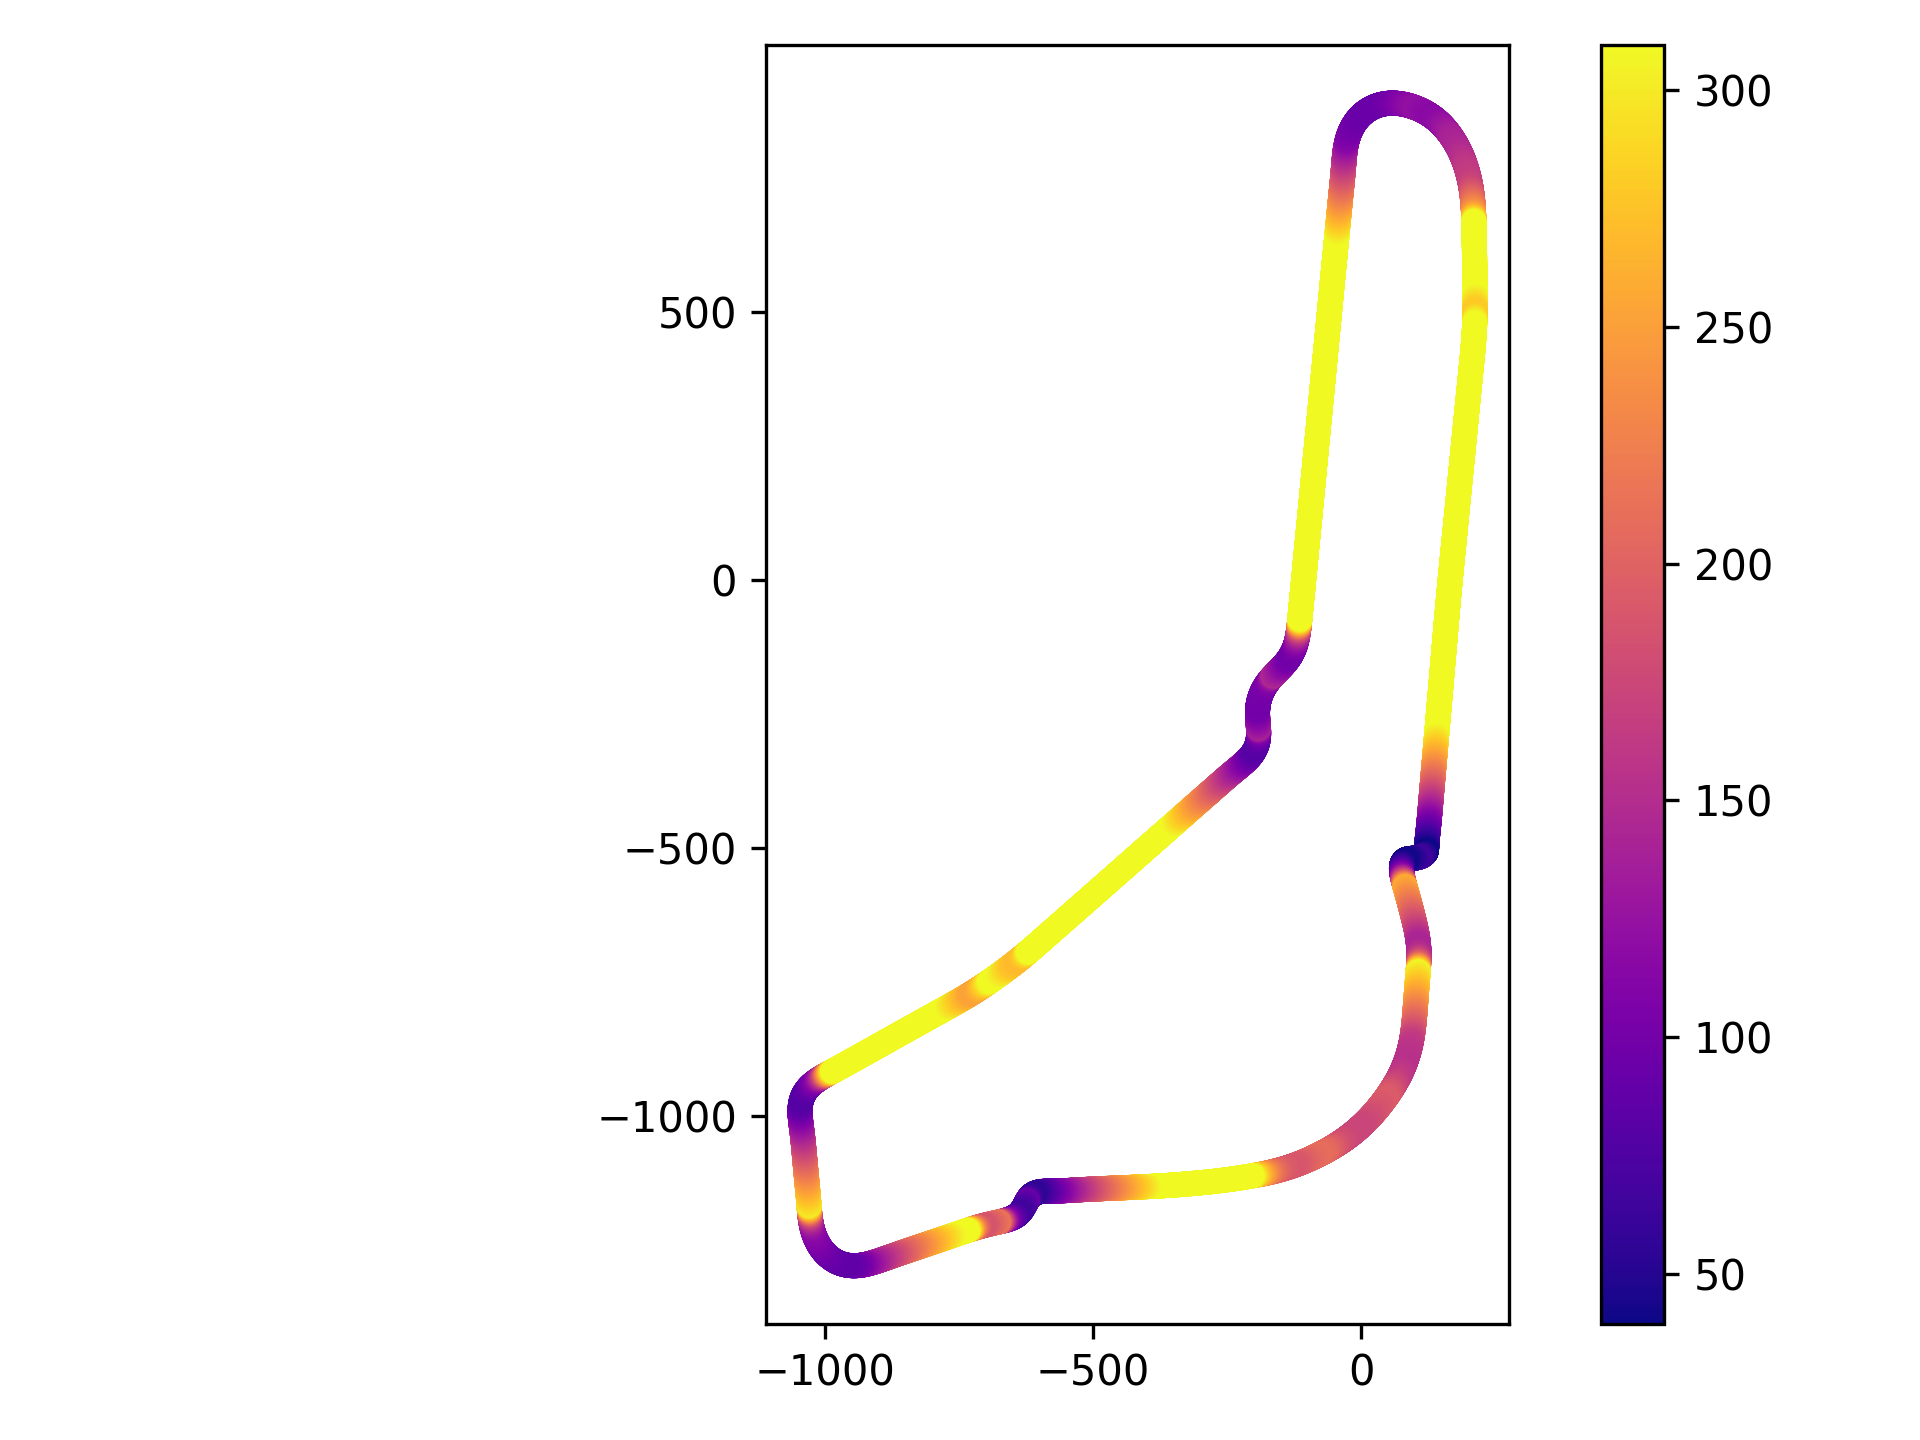
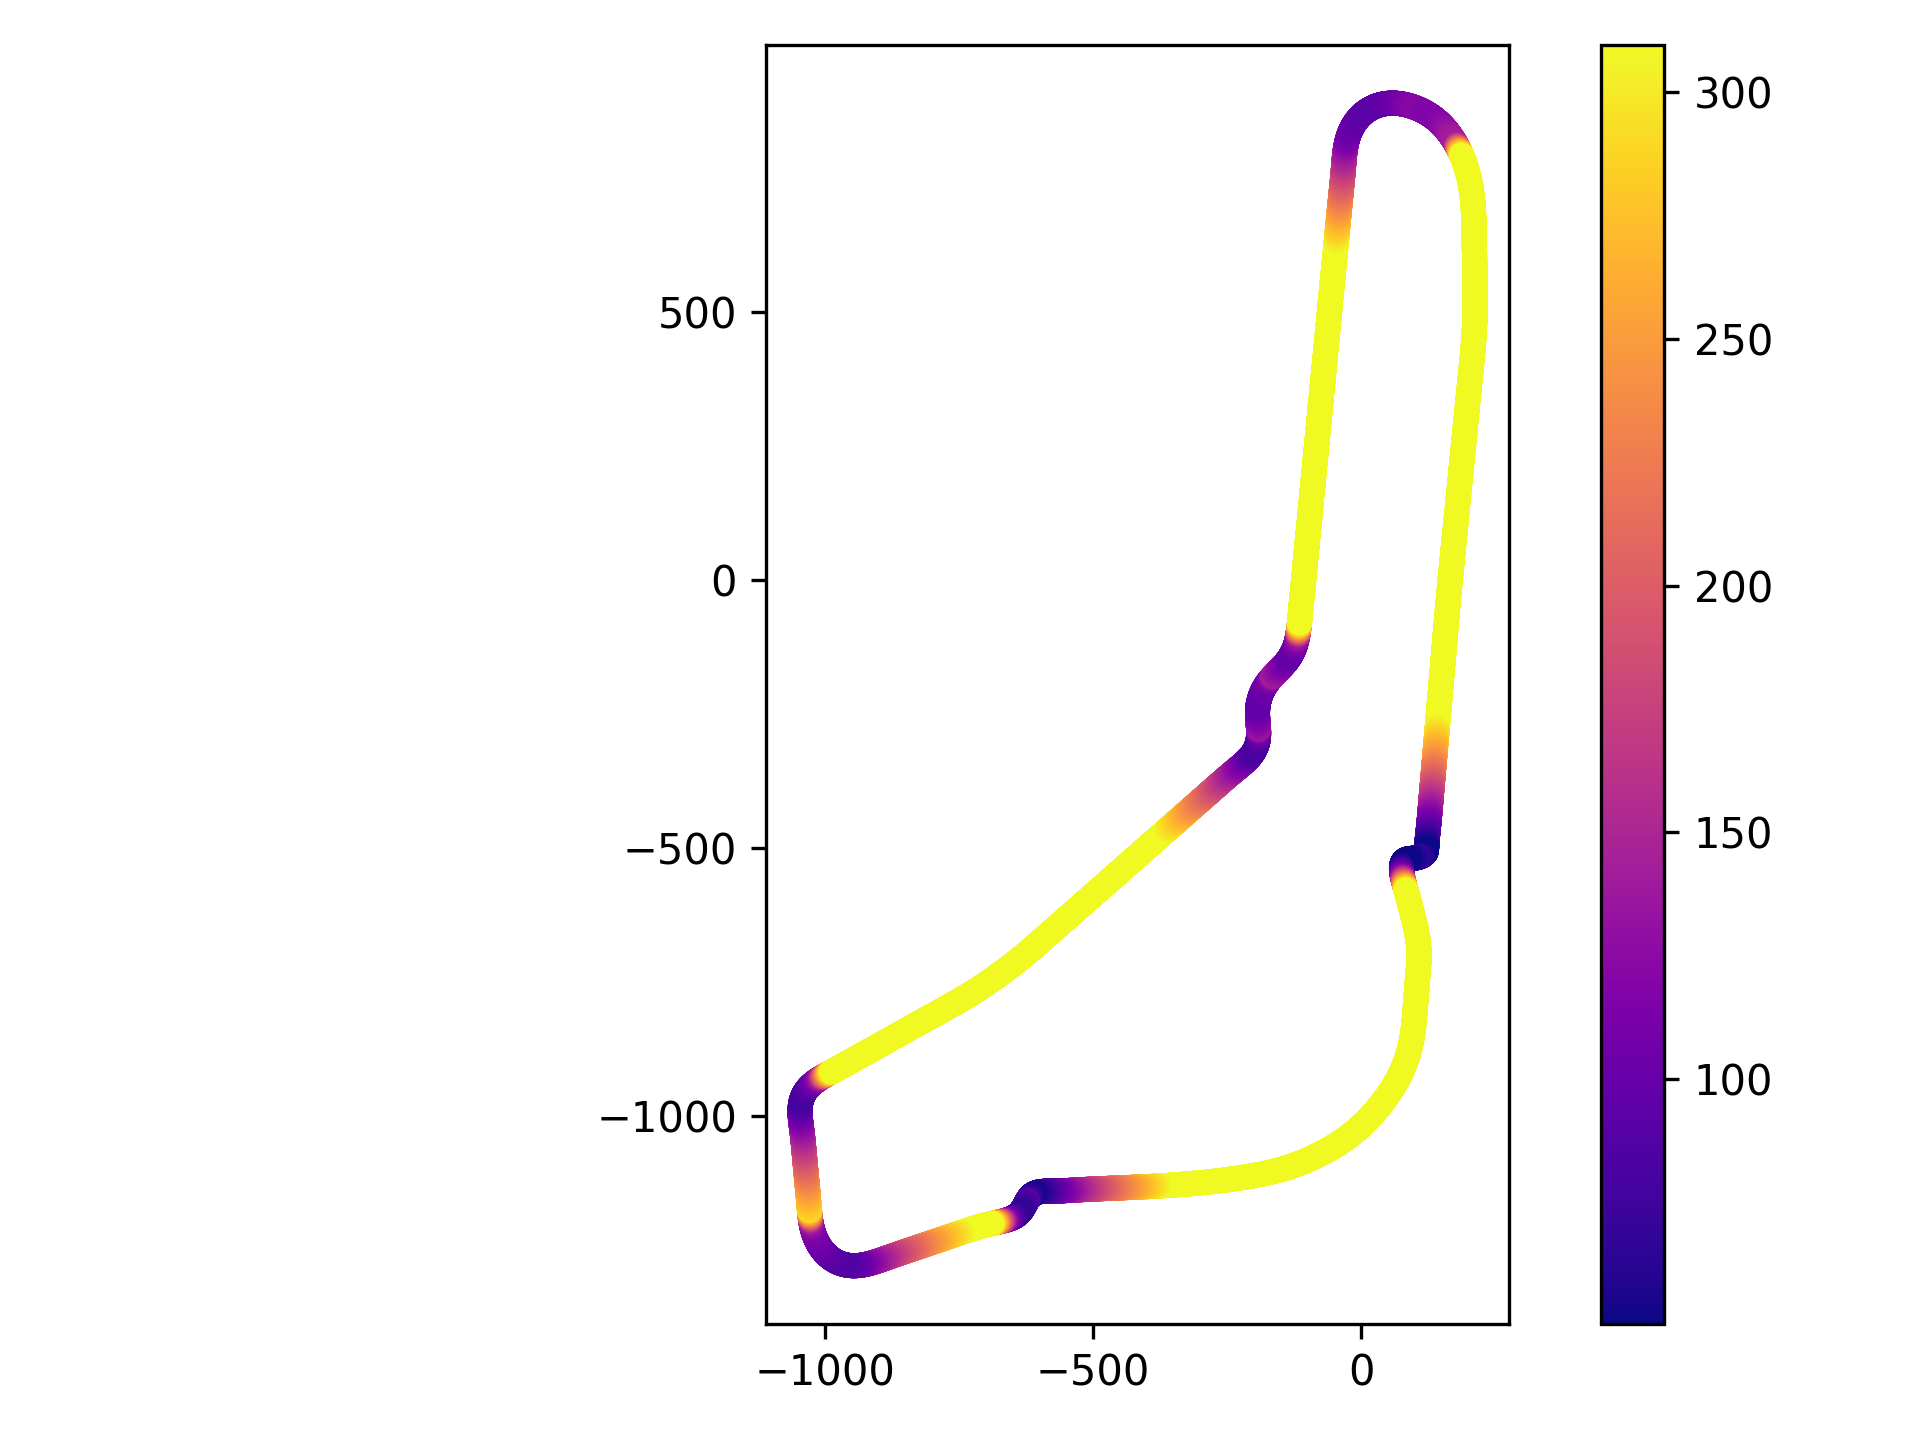
Added kappa threshold, dyanic end_velocity and now using v_min as a floor instead of v_dyn_max

diff --git a/agent/control/spatial_mpc.py b/agent/control/spatial_mpc.py
@@ -77,8 +77,16 @@ class SpatialMPC:
     def v_max(self) -> float:
         return self.SpeedProfileConstraints["v_max"]
 
+    @property
+    def ki_min(self) -> float:
+        return self.SpeedProfileConstraints["ki_min"]
+
     def compute_speed_profile(
-        self, reference_path, end_vel=None, ay_max_overwrite=None, a_min_overwrite=None,
+        self,
+        reference_path,
+        end_vel=None,
+        ay_max_overwrite=None,
+        a_min_overwrite=None,
     ):
         """
         Compute a speed profile for the path. Assign a reference velocity
@@ -126,16 +134,17 @@ class SpatialMPC:
                 D1[i, i : i + 2] = np.array([-1 / (2 * li), 1 / (2 * li)])
 
             # Compute dynamic constraint on velocity
-            v_max_dyn = np.sqrt(ay_max / (np.abs(ki) + self.eps))
-            # if v_max_dyn < v_max[i]:
-            #     v_max[i] = v_max_dyn
+            if abs(ki) < self.ki_min:
+                # Ignore small curvatures caused by noisy homograph
+                v_max_dyn = v_max[i]
+            else:
+                v_max_dyn = np.sqrt(ay_max / (np.abs(ki) + self.eps))
 
-            v_max[i] = min([v_max_dyn, v_max[i]]) + 2e0
-            v_min[i] = min([v_max_dyn, v_min[i]]) - 2e0
+            # + 2.0 creates a feasible regin when v_max == v_min
+            v_max[i] = max([v_min[i], min([v_max_dyn, v_max[i]])]) + 2e0
 
         if end_vel:
             v_max[-1] = min(end_vel, v_max[-1])
-        
 
         # Construct inequality matrix
         D1 = sparse.csc_matrix(D1)
@@ -388,7 +397,7 @@ class SpatialMPC:
         """
         self.reference_path = self.construct_waypoints(reference_path)
         self.reference_path = self.compute_speed_profile(
-            self.reference_path, end_vel=10.0
+            self.reference_path, end_vel=self.SpeedProfileConstraints["end_velocity"]
         )
 
         # Number of state variables
